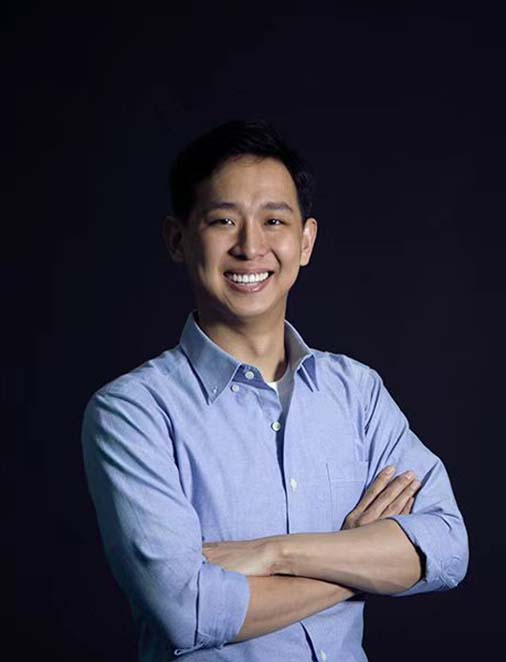
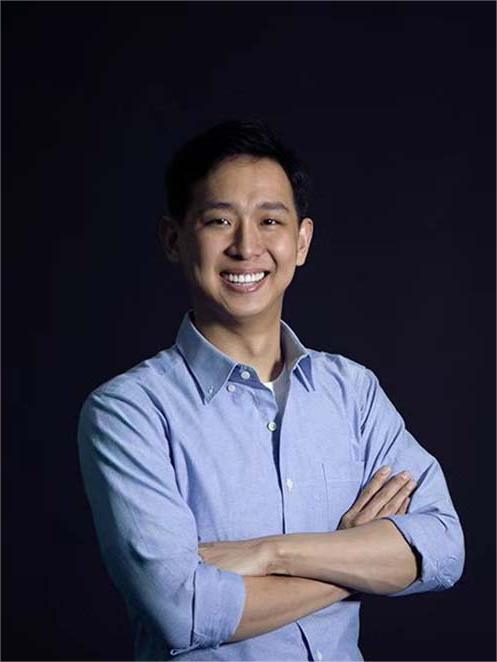
Add pengcheng

diff --git a/_sass/includes/_navbar.scss b/_sass/includes/_navbar.scss
@@ -15,7 +15,7 @@
 
 .site-header {
   padding: 2% 2% 1% 2%;
-  background: var(--background);
+  background: #f5f5f5;
   display: inline-block;
   float: left;
   width: 100%;

diff --git a/pages/faculty.md b/pages/faculty.md
@@ -18,4 +18,13 @@ position: 2
             <span class="details">Assistant Professor<br/>SUSTech School of Design</span>
         </p>
     </div>
+    <div class="figure-grid-item">
+        <a href="http://anpengcheng.cn" target="_blank"  class="image">
+        <img src="\faculty\pengcheng.webp" alt="faculty" />
+        </a>
+        <p class="image-caption">
+            <strong>Pengcheng An</strong><br/>
+            <span class="details">Assistant Professor<br/>SUSTech School of Design</span>
+        </p>
+    </div>
 </div>
